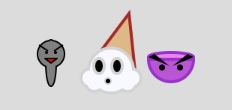
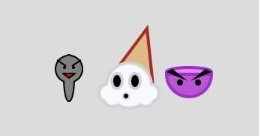
Updated character images and descriptions.

Changed region(s): [[0.3319, 0.0818, 0.6034, 0.8455], [0.1509, 0.3545, 0.3319, 0.7909], [0.6336, 0.4364, 0.8448, 0.7636]]

diff --git a/README.md b/README.md
@@ -29,8 +29,21 @@ This game was inspired by and based on Nitrome's very own *[Bad Ice-Cream](http:
 
 ## Meet Our Characters
 ### The Good Guy
+<img src="https://github.com/isabellaenriquez/Bad-Ice-Cream/blob/master/images/protagonist.JPG" width="20px">
+
+<p>
+This is Ice Cream, our main character, who the player controls. With the power of creating and destroying ice blocks, it is up to Ice Cream to collect all the fruit and defeat the bad guys!
+</p>
 
 ### The Bad Guys
+<img src="https://github.com/isabellaenriquez/Bad-Ice-Cream/blob/master/images/enemies.JPG" height="20px">
+
+<p>
+And then there's the antagonists.
+- Spoonie: The weakest of the gang, he's a bit ditzy and just walks back and forth. If you do walk in his path, however, he will destroy you.
+- Bowler: He has anger issues. He stomps around until he hits a corner and switches directions. Despite his cool purple exterior, you do not want to mess with him.
+- Spooky: The vengeful ghost of an Ice Cream that was wronged. He will chase you. BEWARE.
+</p>
 
 ---
 
